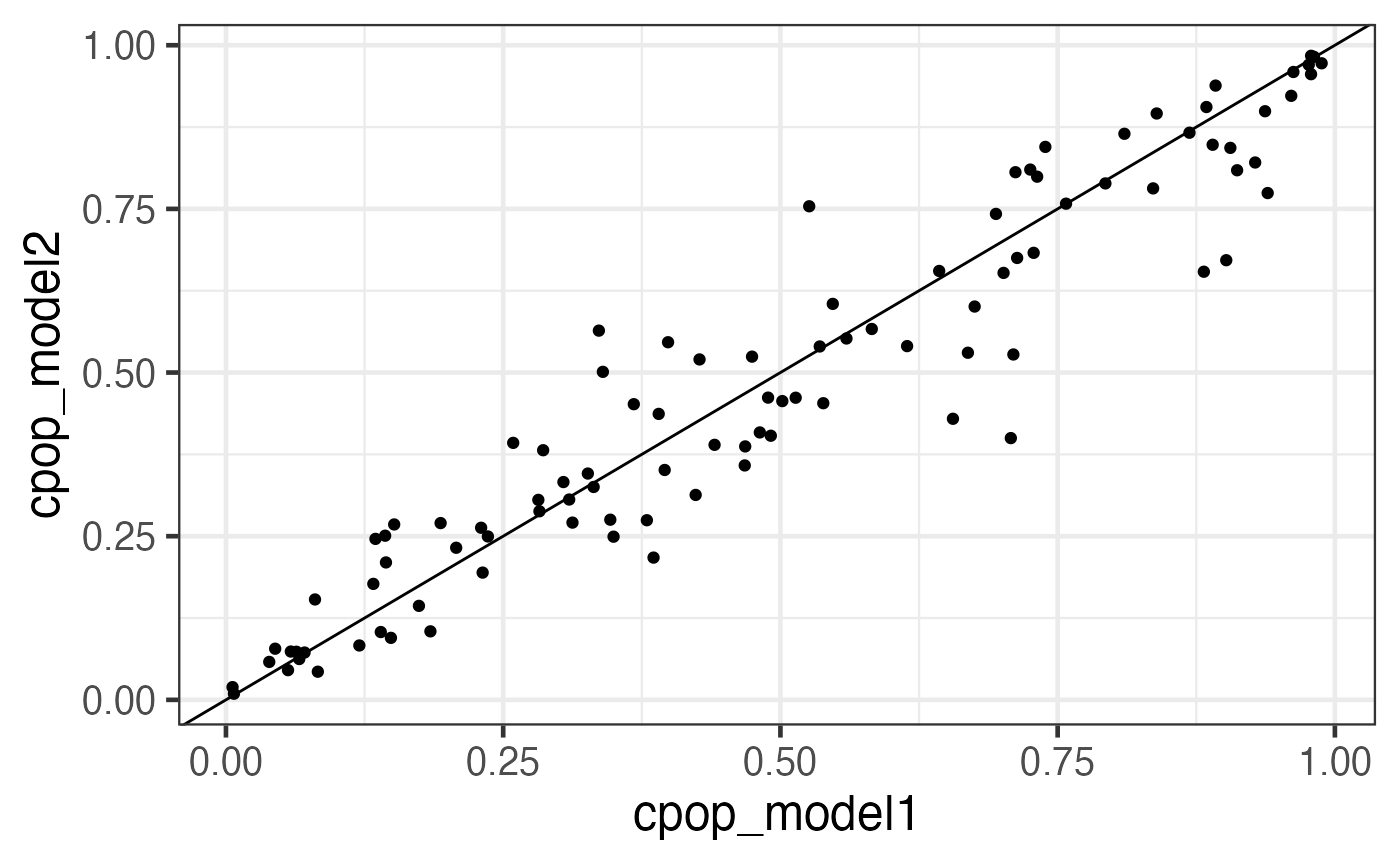
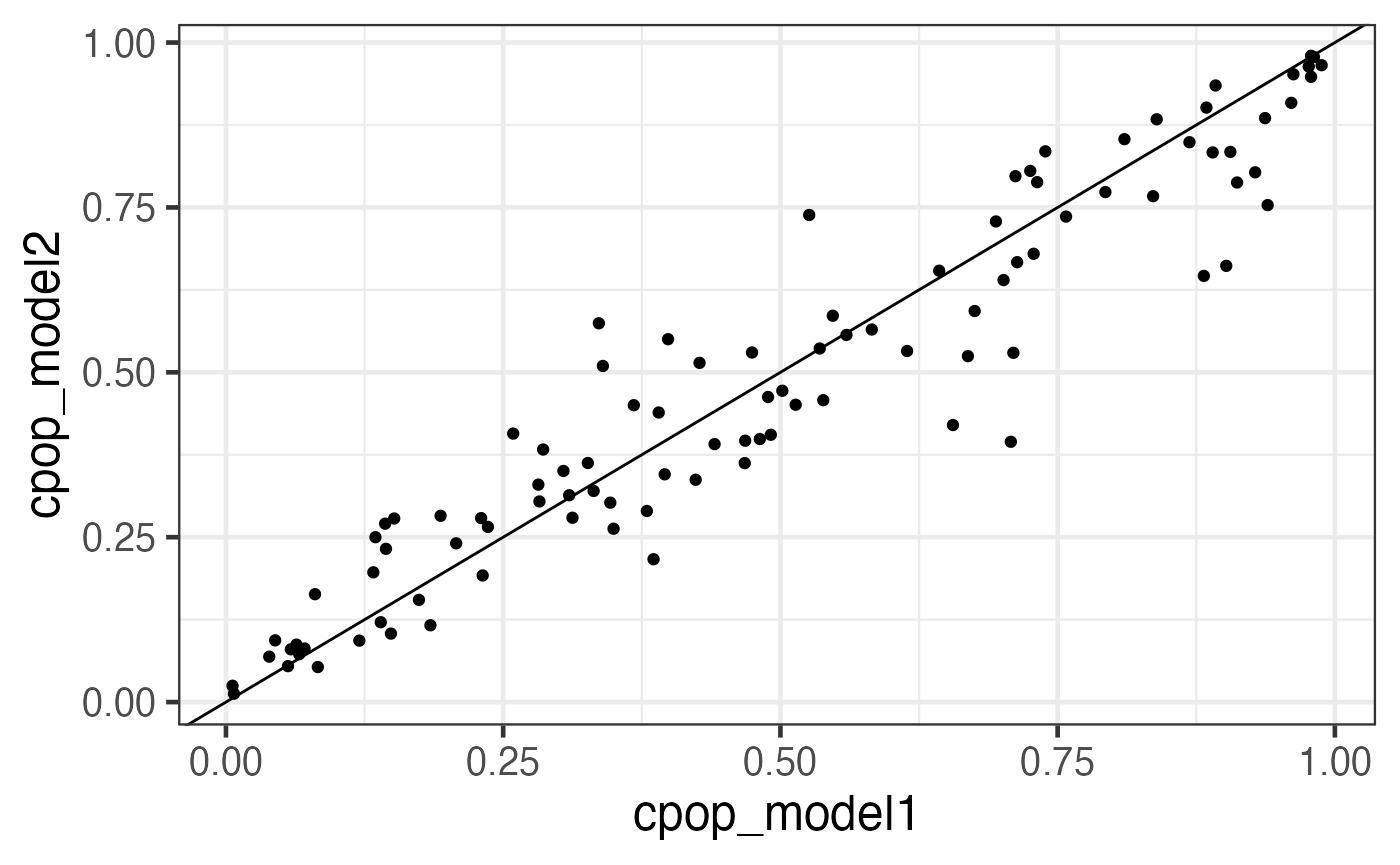
Built site for CPOP: 0.0.24@8a99d67

diff --git a/articles/CPOP.html b/articles/CPOP.html
@@ -196,14 +196,14 @@
 <span class="co">## <span style="color: #949494;"># A tibble: 8 × 3</span></span>
 <span class="co">##   coef_name  coef1    coef2</span>
 <span class="co">##   <span style="color: #949494; font-style: italic;">&lt;fct&gt;</span>      <span style="color: #949494; font-style: italic;">&lt;dbl&gt;</span>    <span style="color: #949494; font-style: italic;">&lt;dbl&gt;</span></span>
-<span class="co">## <span style="color: #BCBCBC;">1</span> X01--X10  -<span style="color: #BB0000;">0.322</span> -<span style="color: #BB0000;">0.246</span>  </span>
-<span class="co">## <span style="color: #BCBCBC;">2</span> X09--X17   0.722  0.538  </span>
-<span class="co">## <span style="color: #BCBCBC;">3</span> X11--X14   0.130  0.003<span style="text-decoration: underline;">47</span></span>
-<span class="co">## <span style="color: #BCBCBC;">4</span> X12--X20   0.404  0.178  </span>
-<span class="co">## <span style="color: #BCBCBC;">5</span> X01--X07  -<span style="color: #BB0000;">0.437</span> -<span style="color: #BB0000;">0.412</span>  </span>
-<span class="co">## <span style="color: #BCBCBC;">6</span> X01--X15  -<span style="color: #BB0000;">0.158</span> -<span style="color: #BB0000;">0.340</span>  </span>
-<span class="co">## <span style="color: #BCBCBC;">7</span> X01--X17  -<span style="color: #BB0000;">0.901</span> -<span style="color: #BB0000;">0.667</span>  </span>
-<span class="co">## <span style="color: #BCBCBC;">8</span> X04--X12   0.353  0.443</span></code></pre>
+<span class="co">## <span style="color: #BCBCBC;">1</span> X01--X10  -<span style="color: #BB0000;">0.322</span> -<span style="color: #BB0000;">0.245</span>  </span>
+<span class="co">## <span style="color: #BCBCBC;">2</span> X09--X17   0.722  0.486  </span>
+<span class="co">## <span style="color: #BCBCBC;">3</span> X11--X14   0.130  0.001<span style="text-decoration: underline;">58</span></span>
+<span class="co">## <span style="color: #BCBCBC;">4</span> X12--X20   0.404  0.152  </span>
+<span class="co">## <span style="color: #BCBCBC;">5</span> X01--X07  -<span style="color: #BB0000;">0.437</span> -<span style="color: #BB0000;">0.400</span>  </span>
+<span class="co">## <span style="color: #BCBCBC;">6</span> X01--X15  -<span style="color: #BB0000;">0.158</span> -<span style="color: #BB0000;">0.322</span>  </span>
+<span class="co">## <span style="color: #BCBCBC;">7</span> X01--X17  -<span style="color: #BB0000;">0.901</span> -<span style="color: #BB0000;">0.599</span>  </span>
+<span class="co">## <span style="color: #BCBCBC;">8</span> X04--X12   0.353  0.406</span></code></pre>
 <p>We can see that most of the selected features had similar coefficients across the two data. This is exactly what CPOP is aiming to achieve: selecting features that are consistent within each datasets.</p>
 <p>However, each of the feature (e.g. <code>X01--X10</code>) actually corresponds to two of the original features in the raw data <code>X01</code> and <code>X10</code> in the data <code>x1</code> and <code>x2</code>. We can further visualise these features in the original features.</p>
 <div class="sourceCode" id="cb33"><pre class="downlit sourceCode r">
@@ -215,14 +215,14 @@
 <span class="co">## <span style="color: #949494;"># A tibble: 8 × 7</span></span>
 <span class="co">##   from  to     coef1    coef2 coef_avg coef_abs sign_coef1</span>
 <span class="co">##   <span style="color: #949494; font-style: italic;">&lt;chr&gt;</span> <span style="color: #949494; font-style: italic;">&lt;chr&gt;</span>  <span style="color: #949494; font-style: italic;">&lt;dbl&gt;</span>    <span style="color: #949494; font-style: italic;">&lt;dbl&gt;</span>    <span style="color: #949494; font-style: italic;">&lt;dbl&gt;</span>    <span style="color: #949494; font-style: italic;">&lt;dbl&gt;</span> <span style="color: #949494; font-style: italic;">&lt;chr&gt;</span>     </span>
-<span class="co">## <span style="color: #BCBCBC;">1</span> X01   X10   -<span style="color: #BB0000;">0.322</span> -<span style="color: #BB0000;">0.246</span>    -<span style="color: #BB0000;">0.284</span>    0.284  Negative  </span>
-<span class="co">## <span style="color: #BCBCBC;">2</span> X09   X17    0.722  0.538     0.630    0.630  Positive  </span>
-<span class="co">## <span style="color: #BCBCBC;">3</span> X11   X14    0.130  0.003<span style="text-decoration: underline;">47</span>   0.066<span style="text-decoration: underline;">9</span>   0.066<span style="text-decoration: underline;">9</span> Positive  </span>
-<span class="co">## <span style="color: #BCBCBC;">4</span> X12   X20    0.404  0.178     0.291    0.291  Positive  </span>
-<span class="co">## <span style="color: #BCBCBC;">5</span> X01   X07   -<span style="color: #BB0000;">0.437</span> -<span style="color: #BB0000;">0.412</span>    -<span style="color: #BB0000;">0.425</span>    0.425  Negative  </span>
-<span class="co">## <span style="color: #BCBCBC;">6</span> X01   X15   -<span style="color: #BB0000;">0.158</span> -<span style="color: #BB0000;">0.340</span>    -<span style="color: #BB0000;">0.249</span>    0.249  Negative  </span>
-<span class="co">## <span style="color: #BCBCBC;">7</span> X01   X17   -<span style="color: #BB0000;">0.901</span> -<span style="color: #BB0000;">0.667</span>    -<span style="color: #BB0000;">0.784</span>    0.784  Negative  </span>
-<span class="co">## <span style="color: #BCBCBC;">8</span> X04   X12    0.353  0.443     0.398    0.398  Positive</span></code></pre>
+<span class="co">## <span style="color: #BCBCBC;">1</span> X01   X10   -<span style="color: #BB0000;">0.322</span> -<span style="color: #BB0000;">0.245</span>    -<span style="color: #BB0000;">0.284</span>    0.284  Negative  </span>
+<span class="co">## <span style="color: #BCBCBC;">2</span> X09   X17    0.722  0.486     0.604    0.604  Positive  </span>
+<span class="co">## <span style="color: #BCBCBC;">3</span> X11   X14    0.130  0.001<span style="text-decoration: underline;">58</span>   0.066<span style="text-decoration: underline;">0</span>   0.066<span style="text-decoration: underline;">0</span> Positive  </span>
+<span class="co">## <span style="color: #BCBCBC;">4</span> X12   X20    0.404  0.152     0.278    0.278  Positive  </span>
+<span class="co">## <span style="color: #BCBCBC;">5</span> X01   X07   -<span style="color: #BB0000;">0.437</span> -<span style="color: #BB0000;">0.400</span>    -<span style="color: #BB0000;">0.419</span>    0.419  Negative  </span>
+<span class="co">## <span style="color: #BCBCBC;">6</span> X01   X15   -<span style="color: #BB0000;">0.158</span> -<span style="color: #BB0000;">0.322</span>    -<span style="color: #BB0000;">0.240</span>    0.240  Negative  </span>
+<span class="co">## <span style="color: #BCBCBC;">7</span> X01   X17   -<span style="color: #BB0000;">0.901</span> -<span style="color: #BB0000;">0.599</span>    -<span style="color: #BB0000;">0.750</span>    0.750  Negative  </span>
+<span class="co">## <span style="color: #BCBCBC;">8</span> X04   X12    0.353  0.406     0.379    0.379  Positive</span></code></pre>
 <p>Here we see that despite the features that we have selected in terms of the ratio, in actual fact, only a handful of features are useful. In particular, <code>X01</code>, <code>X09</code> and <code>X17</code> are the main contributors.</p>
 </div>
 <div class="section level2">
@@ -236,12 +236,12 @@
 <pre><code><span class="co">## <span style="color: #949494;"># A tibble: 6 × 6</span></span>
 <span class="co">##   samples cpop_model1 cpop_model2 cpop_model_avg cpop_model_avg_prob</span>
 <span class="co">##   <span style="color: #949494; font-style: italic;">&lt;chr&gt;</span>         <span style="color: #949494; font-style: italic;">&lt;dbl&gt;</span>       <span style="color: #949494; font-style: italic;">&lt;dbl&gt;</span>          <span style="color: #949494; font-style: italic;">&lt;dbl&gt;</span>               <span style="color: #949494; font-style: italic;">&lt;dbl&gt;</span></span>
-<span class="co">## <span style="color: #BCBCBC;">1</span> 1             0.465       0.162          0.313               0.577</span>
-<span class="co">## <span style="color: #BCBCBC;">2</span> 2            -<span style="color: #BB0000;">1.79</span>       -<span style="color: #BB0000;">1.09</span>          -<span style="color: #BB0000;">1.44</span>                0.197</span>
-<span class="co">## <span style="color: #BCBCBC;">3</span> 3             0.853       0.629          0.741               0.677</span>
-<span class="co">## <span style="color: #BCBCBC;">4</span> 4            -<span style="color: #BB0000;">0.936</span>      -<span style="color: #BB0000;">0.821</span>         -<span style="color: #BB0000;">0.879</span>               0.294</span>
-<span class="co">## <span style="color: #BCBCBC;">5</span> 5            -<span style="color: #BB0000;">0.424</span>      -<span style="color: #BB0000;">0.614</span>         -<span style="color: #BB0000;">0.519</span>               0.373</span>
-<span class="co">## <span style="color: #BCBCBC;">6</span> 6             1.00        1.38           1.19                0.765</span>
+<span class="co">## <span style="color: #BCBCBC;">1</span> 1             0.465       0.130          0.297               0.573</span>
+<span class="co">## <span style="color: #BCBCBC;">2</span> 2            -<span style="color: #BB0000;">1.79</span>       -<span style="color: #BB0000;">0.992</span>         -<span style="color: #BB0000;">1.39</span>                0.207</span>
+<span class="co">## <span style="color: #BCBCBC;">3</span> 3             0.853       0.575          0.714               0.671</span>
+<span class="co">## <span style="color: #BCBCBC;">4</span> 4            -<span style="color: #BB0000;">0.936</span>      -<span style="color: #BB0000;">0.709</span>         -<span style="color: #BB0000;">0.823</span>               0.306</span>
+<span class="co">## <span style="color: #BCBCBC;">5</span> 5            -<span style="color: #BB0000;">0.424</span>      -<span style="color: #BB0000;">0.640</span>         -<span style="color: #BB0000;">0.532</span>               0.370</span>
+<span class="co">## <span style="color: #BCBCBC;">6</span> 6             1.00        1.31           1.16                0.760</span>
 <span class="co">## <span style="color: #949494;"># … with 1 more variable: cpop_model_avg_class &lt;chr&gt;</span></span></code></pre>
 <div class="sourceCode" id="cb38"><pre class="downlit sourceCode r">
 <code class="sourceCode R"><span class="va">predicted_plotdf</span> <span class="op">=</span> <span class="fu"><a href="../reference/predict_cpop.html">predict_cpop</a></span><span class="op">(</span><span class="va">cpop_result</span>, newz <span class="op">=</span> <span class="va">z3</span><span class="op">)</span> <span class="op"><a href="https://magrittr.tidyverse.org/reference/pipe.html" class="external-link">%&gt;%</a></span>

diff --git a/index.html b/index.html
@@ -67,12 +67,14 @@
 <div class="section level1">
 <h1 id="cpop---cross-platform-omics-prediction">CPOP - Cross-Platform Omics Prediction<a class="anchor" aria-label="anchor" href="#cpop---cross-platform-omics-prediction"></a>
 </h1>
-<p>Due to data scale differences between multiple omics data, a model constructed from a training data tends to have poor prediction power on a validation data. While the usual bioinfomatics approach is to re-normalise both the training and the validation data, this step may not be possible due to ethics constrains. CPOP avoids re-normalisation of additional data through the use of log-ratio features and thus also enable prediction for single omics samples.</p>
-<p>The novelty of the CPOP procedure lies in its ability to construct a <strong>transferable</strong> model across gene expression platforms and for prospective experiments. Such a transferable model can be trained to make predictions on independent validation data with an accuracy that is similar to a re-substituted model. The CPOP procedure also has the flexibility to be adapted to suit the most common clinical response variables, including linear response, binomial and multinomial response and Cox PH models.</p>
+<p>Due to data scale differences between multiple omics data, a model constructed from a training data tends to have poor prediction power on a validation data. While the usual bioinformatics approach is to re-normalise both the training and the validation data, this step may not be possible due to ethics constrains. CPOP avoids re-normalisation of additional data through the use of log-ratio features and thus also enable prediction for single omics samples.</p>
+<p>The novelty of the CPOP procedure lies in its ability to construct a <strong>transferable</strong> model across gene expression platforms and for prospective experiments. Such a transferable model can be trained to make predictions on independent validation data with an accuracy that is similar to a re-substituted model. The CPOP procedure also has the flexibility to be adapted to suit the most common clinical response variables, including linear response, binomial and Cox PH models.</p>
+<p><img src="https://kevinwang09.github.io/CPOP/articles/1a.png"></p>
 </div>
 <div class="section level1">
 <h1 id="vignette">Vignette<a class="anchor" aria-label="anchor" href="#vignette"></a>
 </h1>
+<p>See <a href="https://kevinwang09.github.io/CPOP/articles/CPOP.html" class="external-link uri">https://kevinwang09.github.io/CPOP/articles/CPOP.html</a>.</p>
 </div>
 <div class="section level1">
 <h1 id="installation">Installation<a class="anchor" aria-label="anchor" href="#installation"></a>
@@ -83,7 +85,7 @@
 <div class="section level1">
 <h1 id="references">References<a class="anchor" aria-label="anchor" href="#references"></a>
 </h1>
-<p>This is unpublished work, please do not distribute.</p>
+<p>Cross-Platform Omics Prediction procedure: a statistical machine learning framework for wider implementation of precision medicine Kevin Y.X. Wang, Gulietta M. Pupo, Varsha Tembe, Ellis Patrick, Dario Strbenac, Sarah-Jane Schramm, John F. Thompson, Richard A. Scolyer, Samuel Mueller, Garth Tarr, Graham J. Mann, Jean Y.H. Yang bioRxiv 2020.12.09.415927; doi: <a href="https://doi.org/10.1101/2020.12.09.415927" class="external-link uri">https://doi.org/10.1101/2020.12.09.415927</a></p>
 </div>
 
   </div>

diff --git a/reference/cpop_network.html b/reference/cpop_network.html
@@ -74,9 +74,9 @@ using the `ggraph` package.</p></li>
 <span class="r-in"><span class="fu">plot_lratio_network</span><span class="op">(</span><span class="va">x</span>, type <span class="op">=</span> <span class="st">"ggraph"</span><span class="op">)</span></span>
 <span class="r-plt img"><img src="cpop_network-1.png" alt="" width="700" height="433"></span>
 <span class="r-in"><span class="fu">plot_lratio_network</span><span class="op">(</span><span class="va">x</span>, type <span class="op">=</span> <span class="st">"igraph"</span><span class="op">)</span></span>
-<span class="r-out co"><span class="r-pr">#&gt;</span> IGRAPH 18aad39 UN-- 10 9 -- </span>
+<span class="r-out co"><span class="r-pr">#&gt;</span> IGRAPH 4c2282a UN-- 10 9 -- </span>
 <span class="r-out co"><span class="r-pr">#&gt;</span> + attr: name (v/c)</span>
-<span class="r-out co"><span class="r-pr">#&gt;</span> + edges from 18aad39 (vertex names):</span>
+<span class="r-out co"><span class="r-pr">#&gt;</span> + edges from 4c2282a (vertex names):</span>
 <span class="r-out co"><span class="r-pr">#&gt;</span> [1] X1 --X10 X1 --X3  X1 --X4  X1 --X8  X1 --X9  X2 --X5  X2 --X7  X2 --X6 </span>
 <span class="r-out co"><span class="r-pr">#&gt;</span> [9] X10--X8 </span>
 <span class="r-in"><span class="fu">plot_lratio_network</span><span class="op">(</span><span class="va">x</span>, type <span class="op">=</span> <span class="st">"visNetwork"</span><span class="op">)</span></span>

diff --git a/authors.html b/authors.html
@@ -55,15 +55,18 @@
     </div>
 
 
-    <p>Wang K (2022).
-<em>CPOP: CPOP</em>.
-R package version 0.0.24. 
+    <p>Wang K, Pupo G, Tembe V, Patrick E, Strbenac D, Schramm S, Thompson J, Scolyer R, Muller S, Tarr G, Mann G, Yang J (2021).
+“Cross-Platform Omics Prediction procedure: a statistical machine learning framework for wider implementation of precision medicine.”
+<em>bioRxiv preprint</em>.
+doi: <a href="https://doi.org/10.1101/2020.12.09.415927" class="external-link">10.1101/2020.12.09.415927</a>, <a href="https://doi.org/10.1101/2020.12.09.415927" class="external-link">https://doi.org/10.1101/2020.12.09.415927</a>. 
 </p>
-    <pre>@Manual{,
-  title = {CPOP: CPOP},
-  author = {Kevin Wang},
-  year = {2022},
-  note = {R package version 0.0.24},
+    <pre>@Article{,
+  title = {{Cross-Platform Omics Prediction procedure: a statistical machine learning framework for wider implementation of precision medicine}},
+  author = {Kevin Wang and Gulietta Pupo and Varsha Tembe and Ellis Patrick and Dario Strbenac and Sarah-Jane Schramm and John Thompson and Richard Scolyer and Samuel Muller and Garth Tarr and Graham Mann and Jean Yang},
+  year = {2021},
+  journal = {bioRxiv preprint},
+  doi = {https://doi.org/10.1101/2020.12.09.415927},
+  url = {https://doi.org/10.1101/2020.12.09.415927},
 }</pre>
 
   </div>
